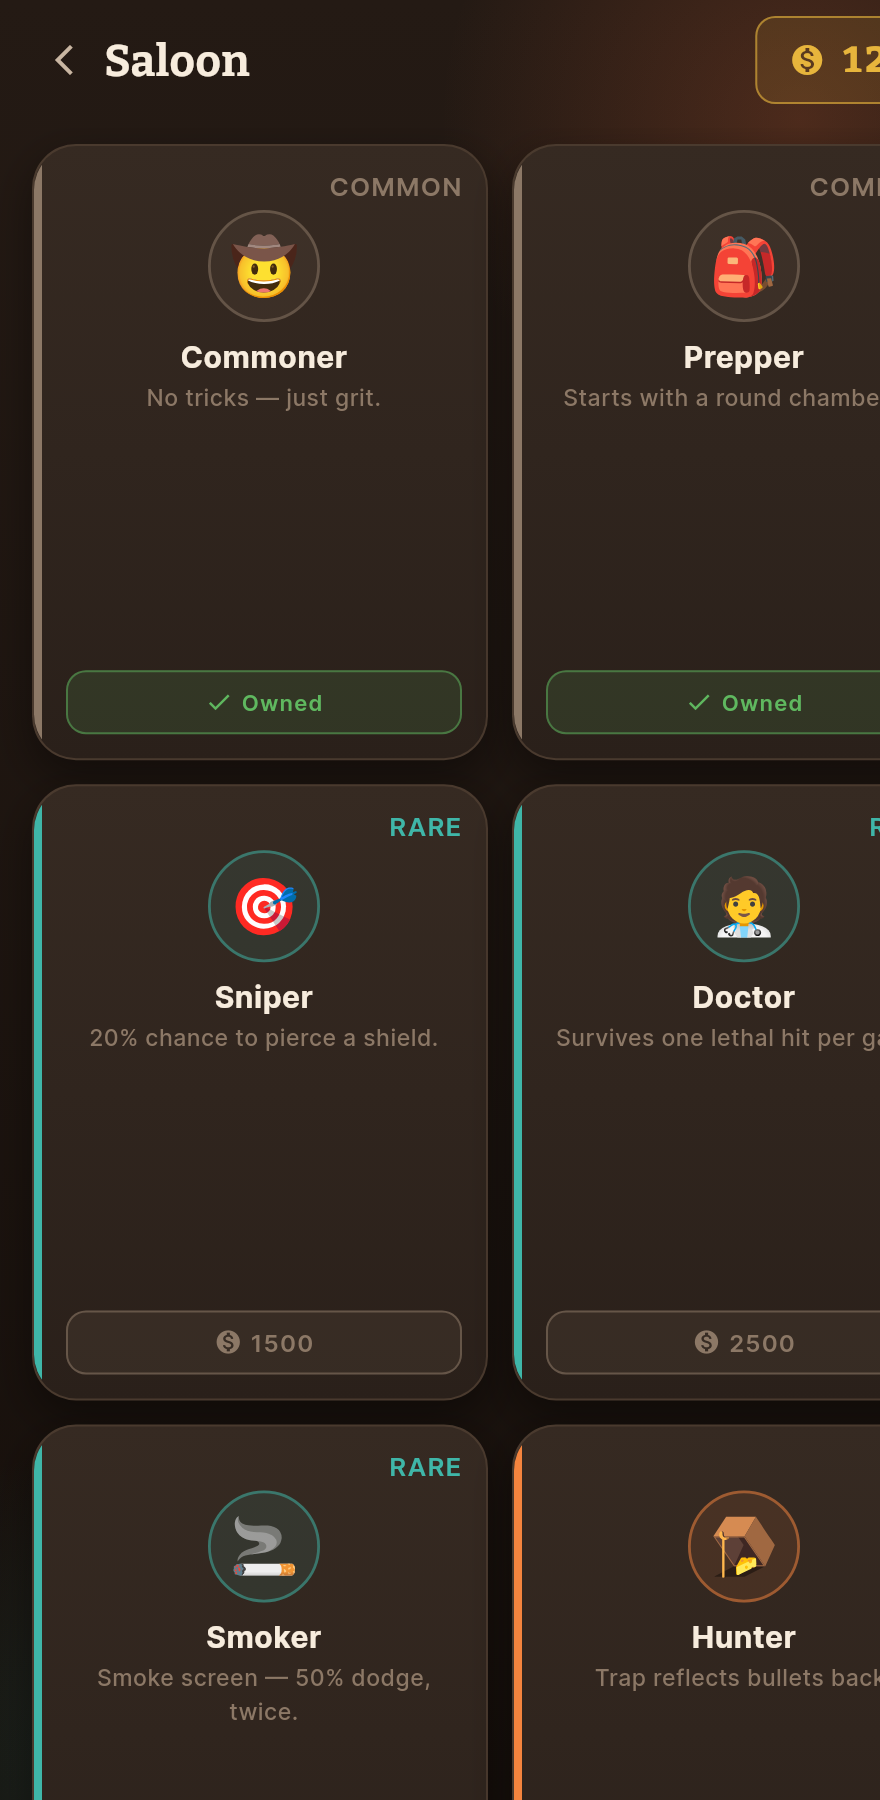
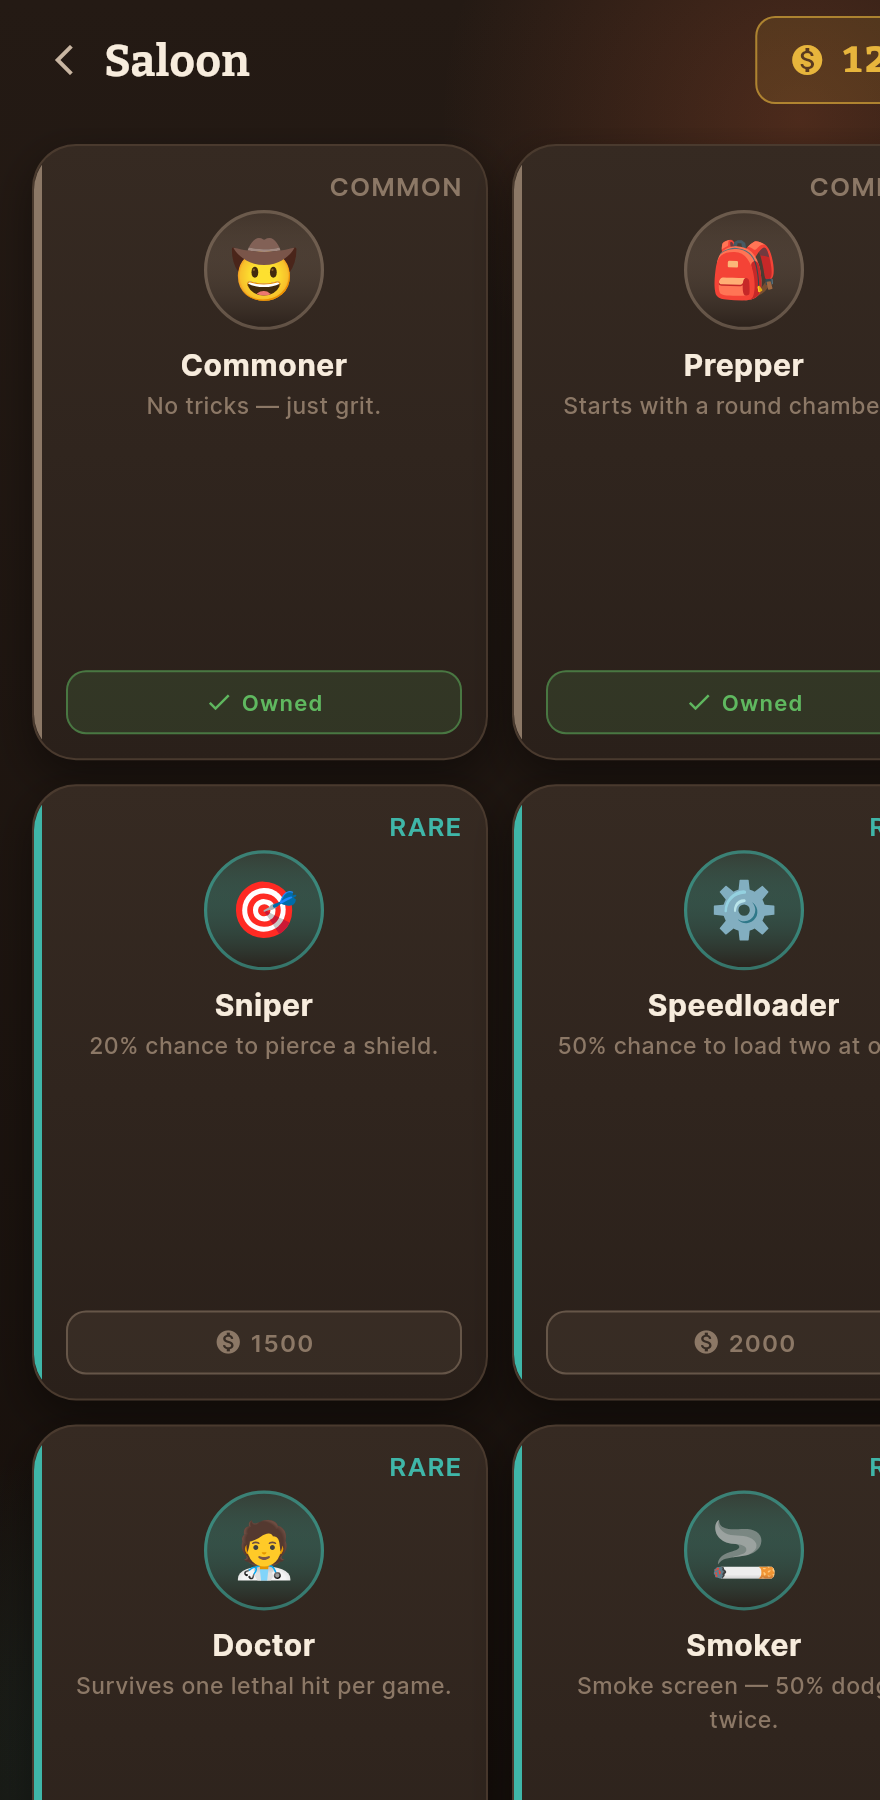
Cycle 11: character illustration integration (shop + seats)
- CharacterPortrait widget: loads assets/characters/<id>.png, falls back to
  emoji placeholder via errorBuilder/frameBuilder (no image-gen; user supplies)
- Character model expanded to all 16 ids; Player.charId added
- Integrated into Saloon cards and in-game seat avatars
- assets/characters/ declared; shaders unaffected
- analyze 0, 7 tests pass, verified saloon_phone.png + table_phone.png
- USER-ACTION: drop 16 PNGs into assets/characters/ (auto-applies)

diff --git a/lib/widgets/character_portrait.dart b/lib/widgets/character_portrait.dart
@@ -1,0 +1,70 @@
+import 'package:flutter/material.dart';
+
+import '../design/tokens.dart';
+
+/// Renders a character's illustration from `assets/characters/<id>.png` when
+/// the user has supplied one, falling back to a styled code placeholder (emoji
+/// in a tinted medallion) when the PNG is missing. No image-generation here —
+/// PNGs are dropped in by hand; see art/CHARACTER_PROMPTS.md.
+class CharacterPortrait extends StatelessWidget {
+  const CharacterPortrait({
+    super.key,
+    required this.id,
+    required this.emoji,
+    required this.color,
+    this.size = 56,
+    this.showRing = true,
+  });
+
+  final String id;
+  final String emoji;
+  final Color color;
+  final double size;
+  final bool showRing;
+
+  @override
+  Widget build(BuildContext context) {
+    final ring = showRing
+        ? Border.all(color: color.withValues(alpha: 0.55), width: 1.6)
+        : null;
+    return Container(
+      width: size,
+      height: size,
+      clipBehavior: Clip.antiAlias,
+      decoration: BoxDecoration(
+        shape: BoxShape.circle,
+        gradient: LinearGradient(
+          begin: Alignment.topCenter,
+          end: Alignment.bottomCenter,
+          colors: [color.withValues(alpha: 0.14), CColors.surface],
+        ),
+        border: ring,
+      ),
+      child: Image.asset(
+        'assets/characters/$id.png',
+        fit: BoxFit.cover,
+        width: size,
+        height: size,
+        // PNG not supplied yet → graceful emoji placeholder.
+        errorBuilder: (context, error, stack) => _Placeholder(emoji: emoji, size: size),
+        // Avoid a flash of nothing while decoding.
+        frameBuilder: (context, child, frame, wasSync) {
+          if (wasSync || frame != null) return child;
+          return _Placeholder(emoji: emoji, size: size);
+        },
+      ),
+    );
+  }
+}
+
+class _Placeholder extends StatelessWidget {
+  const _Placeholder({required this.emoji, required this.size});
+  final String emoji;
+  final double size;
+  @override
+  Widget build(BuildContext context) {
+    return Center(
+      child: Text(emoji, style: TextStyle(fontSize: size * 0.46)),
+    );
+  }
+}

diff --git a/lib/models/character.dart b/lib/models/character.dart
@@ -21,10 +21,12 @@ extension RarityStyle on Rarity {
 }
 
 /// A buyable cowboy character. View-model for the Saloon; abilities mirror
-/// cowboy_party's roster but only the copy needed to render a shop card.
+/// cowboy_party's roster. [id] matches the illustration filename
+/// (`assets/characters/<id>.png`) and the prompt id in art/CHARACTER_PROMPTS.md.
 @immutable
 class Character {
   const Character({
+    required this.id,
     required this.name,
     required this.emoji,
     required this.tagline,
@@ -33,6 +35,7 @@ class Character {
     this.owned = false,
   });
 
+  final String id;
   final String name;
   final String emoji;
   final String tagline;
@@ -40,18 +43,23 @@ class Character {
   final Rarity rarity;
   final bool owned;
 
-  /// Curated Saloon catalogue (subset of the full cowboy_party roster).
+  /// Full Saloon catalogue — all 16 characters (ids match CHARACTER_PROMPTS.md).
   static const List<Character> catalog = [
-    Character(name: 'Commoner', emoji: '🤠', tagline: 'No tricks — just grit.', price: 0, rarity: Rarity.common, owned: true),
-    Character(name: 'Prepper', emoji: '🎒', tagline: 'Starts with a round chambered.', price: 1000, rarity: Rarity.common, owned: true),
-    Character(name: 'Sniper', emoji: '🎯', tagline: '20% chance to pierce a shield.', price: 1500, rarity: Rarity.rare),
-    Character(name: 'Doctor', emoji: '🧑⚕️', tagline: 'Survives one lethal hit per game.', price: 2500, rarity: Rarity.rare),
-    Character(name: 'Smoker', emoji: '🚬', tagline: 'Smoke screen — 50% dodge, twice.', price: 3000, rarity: Rarity.rare),
-    Character(name: 'Hunter', emoji: '🪤', tagline: 'Trap reflects bullets back.', price: 3500, rarity: Rarity.epic),
-    Character(name: 'Duelist', emoji: '🤺', tagline: 'Always wins the showdown.', price: 4500, rarity: Rarity.epic),
-    Character(name: 'Pacifist', emoji: '🕊️', tagline: 'Reload six times to win.', price: 5000, rarity: Rarity.epic),
-    Character(name: 'Shadow', emoji: '🥷', tagline: 'Ammo & moves stay hidden.', price: 5500, rarity: Rarity.epic),
-    Character(name: 'Voodoo', emoji: '🪬', tagline: 'Curse — target dies in 10 turns.', price: 7500, rarity: Rarity.legend),
-    Character(name: 'Mystery', emoji: '❓', tagline: 'A random role every game.', price: 10000, rarity: Rarity.legend),
+    Character(id: 'commoner', name: 'Commoner', emoji: '🤠', tagline: 'No tricks — just grit.', price: 0, rarity: Rarity.common, owned: true),
+    Character(id: 'prepper', name: 'Prepper', emoji: '🎒', tagline: 'Starts with a round chambered.', price: 1000, rarity: Rarity.common, owned: true),
+    Character(id: 'sniper', name: 'Sniper', emoji: '🎯', tagline: '20% chance to pierce a shield.', price: 1500, rarity: Rarity.rare),
+    Character(id: 'speedloader', name: 'Speedloader', emoji: '⚙️', tagline: '50% chance to load two at once.', price: 2000, rarity: Rarity.rare),
+    Character(id: 'doctor', name: 'Doctor', emoji: '🧑⚕️', tagline: 'Survives one lethal hit per game.', price: 2500, rarity: Rarity.rare),
+    Character(id: 'smoker', name: 'Smoker', emoji: '🚬', tagline: 'Smoke screen — 50% dodge, twice.', price: 3000, rarity: Rarity.rare),
+    Character(id: 'hunter', name: 'Hunter', emoji: '🪤', tagline: 'Trap reflects bullets back.', price: 3500, rarity: Rarity.epic),
+    Character(id: 'resetter', name: 'Resetter', emoji: '🔄', tagline: 'Nullify everyone\'s move once.', price: 4000, rarity: Rarity.epic),
+    Character(id: 'duelist', name: 'Duelist', emoji: '🤺', tagline: 'Always wins the showdown.', price: 4500, rarity: Rarity.epic),
+    Character(id: 'pacifist', name: 'Pacifist', emoji: '🕊️', tagline: 'Reload six times to win.', price: 5000, rarity: Rarity.epic),
+    Character(id: 'shadow', name: 'Shadow', emoji: '🥷', tagline: 'Ammo & moves stay hidden.', price: 5500, rarity: Rarity.epic),
+    Character(id: 'roulette', name: 'Roulette', emoji: '🎰', tagline: '50:50 fate trigger, always on.', price: 6000, rarity: Rarity.epic),
+    Character(id: 'dualgun', name: 'Dualgun', emoji: '🔫', tagline: 'Two bullets, two targets at once.', price: 6500, rarity: Rarity.legend),
+    Character(id: 'paparazzi', name: 'Paparazzi', emoji: '📸', tagline: 'Peek one rival\'s move first.', price: 7000, rarity: Rarity.legend),
+    Character(id: 'voodoo', name: 'Voodoo', emoji: '🪬', tagline: 'Curse — target dies in 10 turns.', price: 7500, rarity: Rarity.legend),
+    Character(id: 'mystery', name: 'Mystery', emoji: '❓', tagline: 'A random role every game.', price: 10000, rarity: Rarity.legend),
   ];
 }

diff --git a/lib/models/player.dart b/lib/models/player.dart
@@ -11,6 +11,7 @@ class Player {
     required this.name,
     required this.emoji,
     required this.ammo,
+    this.charId = 'commoner',
     this.maxAmmo = 6,
     this.alive = true,
     this.shielded = false,
@@ -21,6 +22,9 @@ class Player {
 
   final String name;
   final String emoji;
+
+  /// Character id — maps to the illustration `assets/characters/<charId>.png`.
+  final String charId;
   final int ammo;
   final int maxAmmo;
   final bool alive;
@@ -33,11 +37,11 @@ class Player {
 
   /// Demo table — you plus five rivals around the circle.
   static const List<Player> demoTable = [
-    Player(name: 'You', emoji: '🤠', ammo: 2, isYou: true, role: 'Commoner'),
-    Player(name: 'Doc', emoji: '🧑⚕️', ammo: 3, shielded: true, role: 'Doctor', roleColor: CColors.accent),
-    Player(name: 'Belle', emoji: '👰', ammo: 1, role: 'Pacifist', roleColor: CColors.gold),
-    Player(name: 'Rio', emoji: '🤖', ammo: 0, alive: false, role: 'Mystery'),
-    Player(name: 'Tex', emoji: '🧔', ammo: 5, role: 'Sniper', roleColor: CColors.primaryBright),
-    Player(name: 'Jin', emoji: '🥷', ammo: 2, role: 'Shadow', roleColor: CColors.textLow),
+    Player(name: 'You', emoji: '🤠', charId: 'commoner', ammo: 2, isYou: true, role: 'Commoner'),
+    Player(name: 'Doc', emoji: '🧑⚕️', charId: 'doctor', ammo: 3, shielded: true, role: 'Doctor', roleColor: CColors.accent),
+    Player(name: 'Belle', emoji: '🕊️', charId: 'pacifist', ammo: 1, role: 'Pacifist', roleColor: CColors.gold),
+    Player(name: 'Rio', emoji: '❓', charId: 'mystery', ammo: 0, alive: false, role: 'Mystery'),
+    Player(name: 'Tex', emoji: '🎯', charId: 'sniper', ammo: 5, role: 'Sniper', roleColor: CColors.primaryBright),
+    Player(name: 'Jin', emoji: '🥷', charId: 'shadow', ammo: 2, role: 'Shadow', roleColor: CColors.textLow),
   ];
 }

diff --git a/lib/screens/saloon_screen.dart b/lib/screens/saloon_screen.dart
@@ -4,6 +4,7 @@ import '../design/components.dart';
 import '../design/theme.dart';
 import '../design/tokens.dart';
 import '../models/character.dart';
+import '../widgets/character_portrait.dart';
 
 /// The Saloon — the character shop. A responsive grid of character cards over
 /// the shared dusk backdrop, with the player's coin balance pinned to the top.
@@ -104,16 +105,11 @@ class CharacterCard extends StatelessWidget {
           ),
           const SizedBox(height: CSpace.xxs),
           Center(
-            child: Container(
-              width: 56,
-              height: 56,
-              alignment: Alignment.center,
-              decoration: BoxDecoration(
-                shape: BoxShape.circle,
-                color: r.color.withValues(alpha: 0.10),
-                border: Border.all(color: r.color.withValues(alpha: 0.5), width: 1.4),
-              ),
-              child: Text(character.emoji, style: const TextStyle(fontSize: 28)),
+            child: CharacterPortrait(
+              id: character.id,
+              emoji: character.emoji,
+              color: r.color,
+              size: 60,
             ),
           ),
           const SizedBox(height: CSpace.xs),

diff --git a/lib/widgets/player_seat.dart b/lib/widgets/player_seat.dart
@@ -3,6 +3,7 @@ import 'package:flutter/material.dart';
 import '../design/theme.dart';
 import '../design/tokens.dart';
 import '../models/player.dart';
+import 'character_portrait.dart';
 
 /// A single seat around the table: avatar token, name, ammo pips, and status
 /// (alive / shielded / down). Compact so six fit around a circle on a phone.
@@ -53,11 +54,6 @@ class _Avatar extends StatelessWidget {
       height: 58,
       decoration: BoxDecoration(
         shape: BoxShape.circle,
-        gradient: const LinearGradient(
-          begin: Alignment.topCenter,
-          end: Alignment.bottomCenter,
-          colors: [CColors.surfaceHi, CColors.surface],
-        ),
         border: Border.all(
           color: highlight ? CColors.gold : accent.withValues(alpha: player.alive ? 0.7 : 0.3),
           width: highlight ? 2.4 : 1.6,
@@ -67,7 +63,13 @@ class _Avatar extends StatelessWidget {
       child: Stack(
         alignment: Alignment.center,
         children: [
-          Text(player.emoji, style: const TextStyle(fontSize: 26)),
+          CharacterPortrait(
+            id: player.charId,
+            emoji: player.emoji,
+            color: accent,
+            size: 54,
+            showRing: false,
+          ),
           if (player.shielded)
             const Positioned(
               right: -2,

diff --git a/ARCHITECTURE.md b/ARCHITECTURE.md
@@ -2,7 +2,7 @@
 
 > Figma 주도(예정) 리디자인 프로토타입. **cowboy_party 본 앱과 완전 독립**(별도 폴더/repo/도메인).
 > 목표: 카우보이 파티 게임을 처음부터 예쁜 디자인 시스템으로 다시 그린다.
-> 최종 갱신: 2026-06-16 (Cycle 9 — 이펙트 시스템 + 빵야/슈퍼빵야)
+> 최종 갱신: 2026-06-16 (Cycle 11 — 캐릭터 일러스트 통합)
 >
 > **피벗(2026-06-16):** Figma 폐기. 이 레포는 이제 **아트+이펙트 랩**. 핵심 화면(Cycle1~7)은 베이스로 유지.
 > 새 목표: (1) 코드 기반 이펙트 고도화, (2) 캐릭터 일러스트 통합. cowboy_party는 읽기 전용 레퍼런스.
@@ -35,6 +35,12 @@
 - `presenters/hit_burst.dart` — 히트/처치: Flame 방사 파편 + 확장 쇼크링.
 - 셰이더 `shaders/beam.frag`(빔 블룸·헤드 트래블), `shaders/ring.frag`(링 쇼크웨이브) — pubspec `flutter: shaders:` 등록.
 - 검증: `lib/screens/effects_lab_screen.dart`(`/lab`) — 좌석 토큰 링 + Bang/Super/Hit/Clear 버튼. URL에 `auto` 포함 시 주기 발사(스크린샷용, `?auto=1#/lab`). 샷 `shots/effects/`.
+
+## 1.6 캐릭터 일러스트 (아트 통합)
+- 프롬프트: `art/CHARACTER_PROMPTS.md`(16종, 공통 스타일 블록 + 캐릭터별). **이미지 생성 스크립트 없음** — PNG는 사장님이 직접 생성해 `assets/characters/<id>.png`로 투입.
+- `lib/widgets/character_portrait.dart` `CharacterPortrait` — `Image.asset('assets/characters/<id>.png')` 로드, **`errorBuilder`/`frameBuilder`로 PNG 없으면 이모지 코드 플레이스홀더**(레어리티/역할색 틴트 메달리온)로 폴백. 크래시 없음.
+- 모델: `Character.id`(16종, catalog), `Player.charId`. id는 프롬프트/파일명과 1:1.
+- 통합: **상점 카드**(`saloon_screen.dart` CharacterCard) + **게임 좌석**(`player_seat.dart` _Avatar) 모두 CharacterPortrait 사용. PNG 투입 시 자동 반영.
 
 ## 2. 화면
 - `lib/screens/home_screen.dart` — 홈/타이틀. DuskBackground 위 워드마크(Cowboy/Party) + 태그라인 + PLAY CTA(→ /table) + 보조(How to play/Saloon) + 코인/스트릭/승수 스탯 스트립.